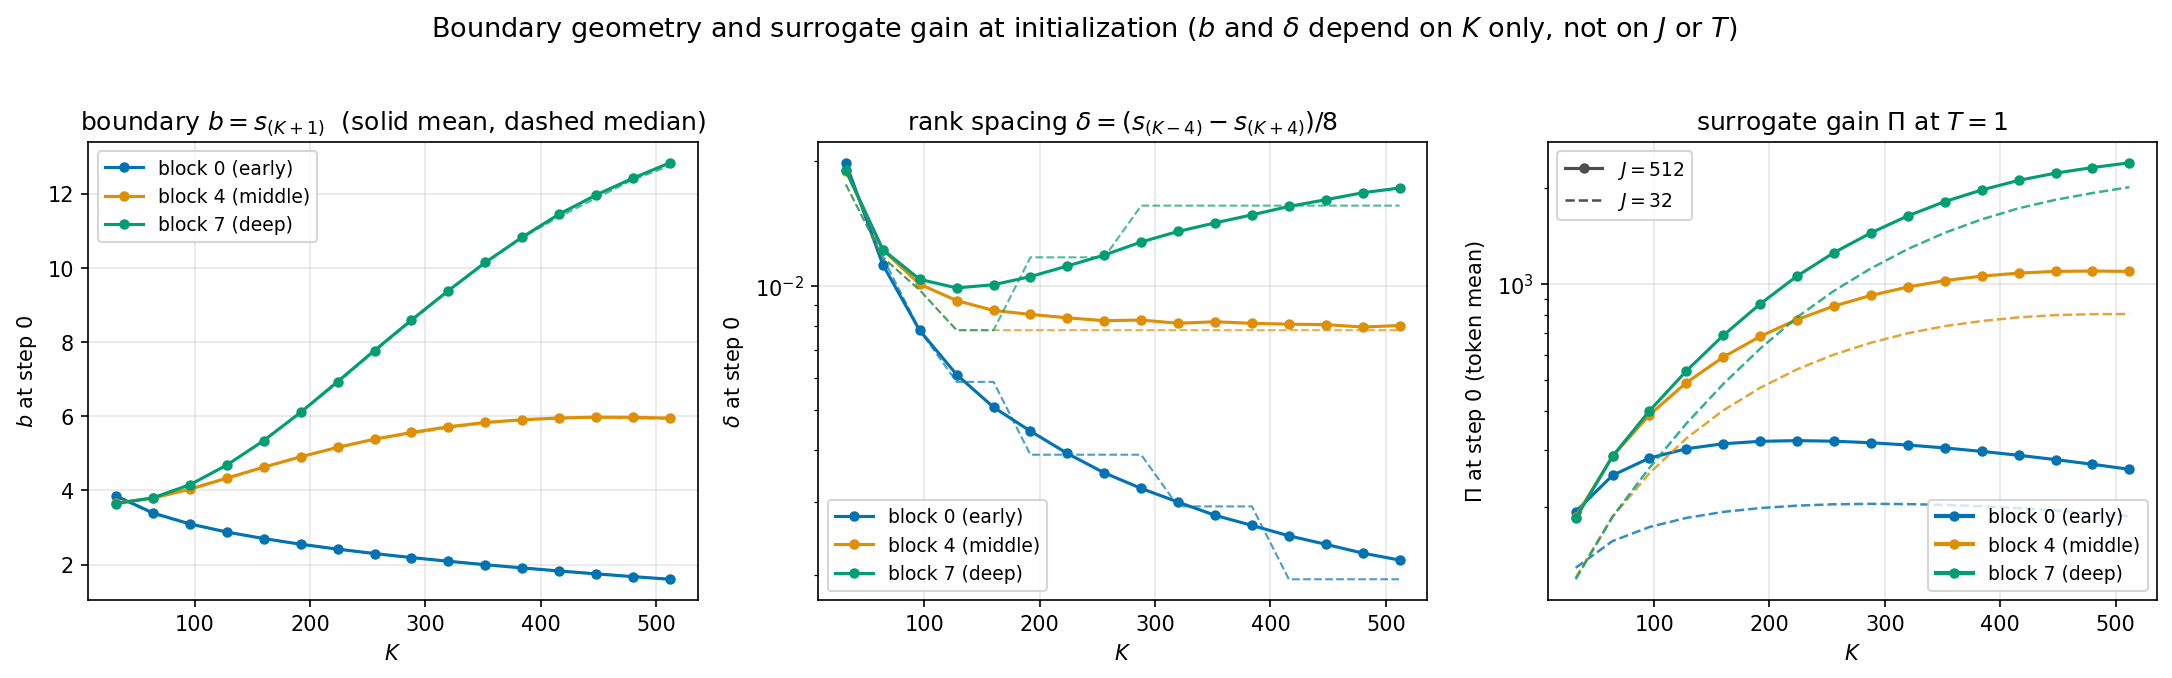
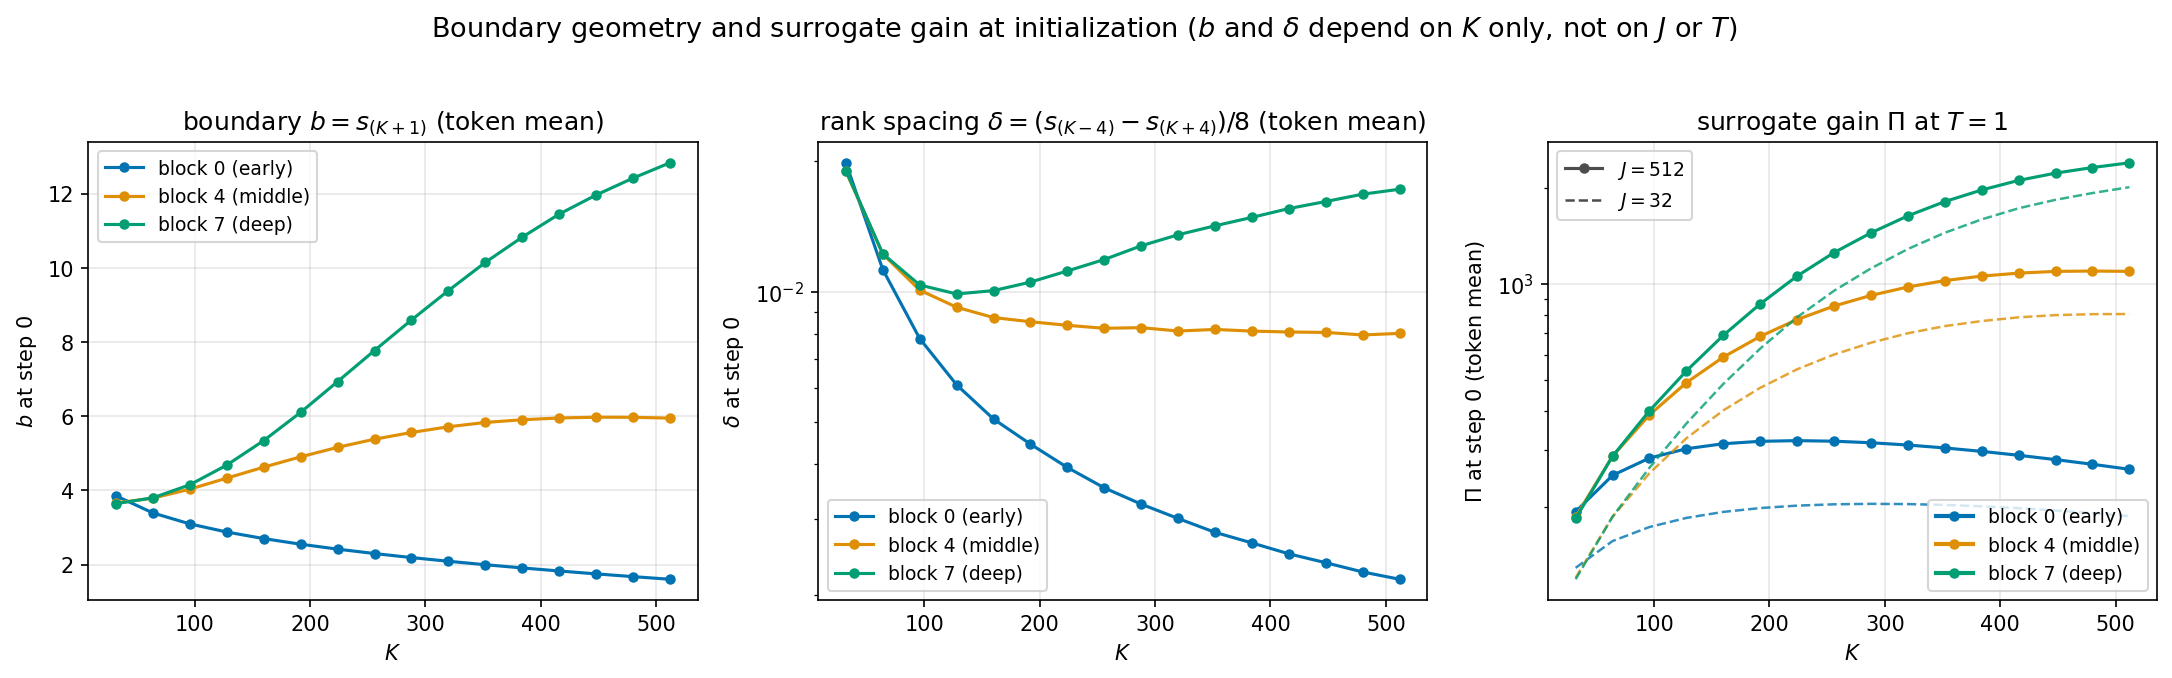
analysis: drop the median curves from the b and delta panels
Token means only; titles say so.

diff --git a/scripts/plot_init_pi.py b/scripts/plot_init_pi.py
@@ -81,18 +81,14 @@ with PdfPages(out_pdf) as pdf:
     colors = {blk: c for blk, c in zip(blocks, ["#0173B2", "#DE8F05", "#029E73"])}
     for blk in blocks:
         b = [d["boundary"][f"K{K}_blk{blk}"]["b_mean"] for K in Ks]
-        bmed = [d["boundary"][f"K{K}_blk{blk}"]["b_med"] for K in Ks]
         dl = [d["boundary"][f"K{K}_blk{blk}"]["delta_mean"] for K in Ks]
-        dlmed = [d["boundary"][f"K{K}_blk{blk}"]["delta_med"] for K in Ks]
         lab = f"block {blk} ({BLOCK_LABEL.get(blk, '')})"
         axes[0].plot(Ks, b, "-o", color=colors[blk], ms=4, label=lab)
-        axes[0].plot(Ks, bmed, "--", color=colors[blk], lw=1, alpha=0.7)
         axes[1].plot(Ks, dl, "-o", color=colors[blk], ms=4, label=lab)
-        axes[1].plot(Ks, dlmed, "--", color=colors[blk], lw=1, alpha=0.7)
     axes[0].set_ylabel("$b$ at step 0")
-    axes[0].set_title("boundary $b=s_{(K+1)}$  (solid mean, dashed median)")
+    axes[0].set_title("boundary $b=s_{(K+1)}$ (token mean)")
     axes[1].set_ylabel("$\\delta$ at step 0")
-    axes[1].set_title("rank spacing $\\delta=(s_{(K-4)}-s_{(K+4)})/8$")
+    axes[1].set_title("rank spacing $\\delta=(s_{(K-4)}-s_{(K+4)})/8$ (token mean)")
     axes[1].set_yscale("log")
     T_REF = 1.0
     J_WIDE, J_NARROW = Js[-1], Js[0]
